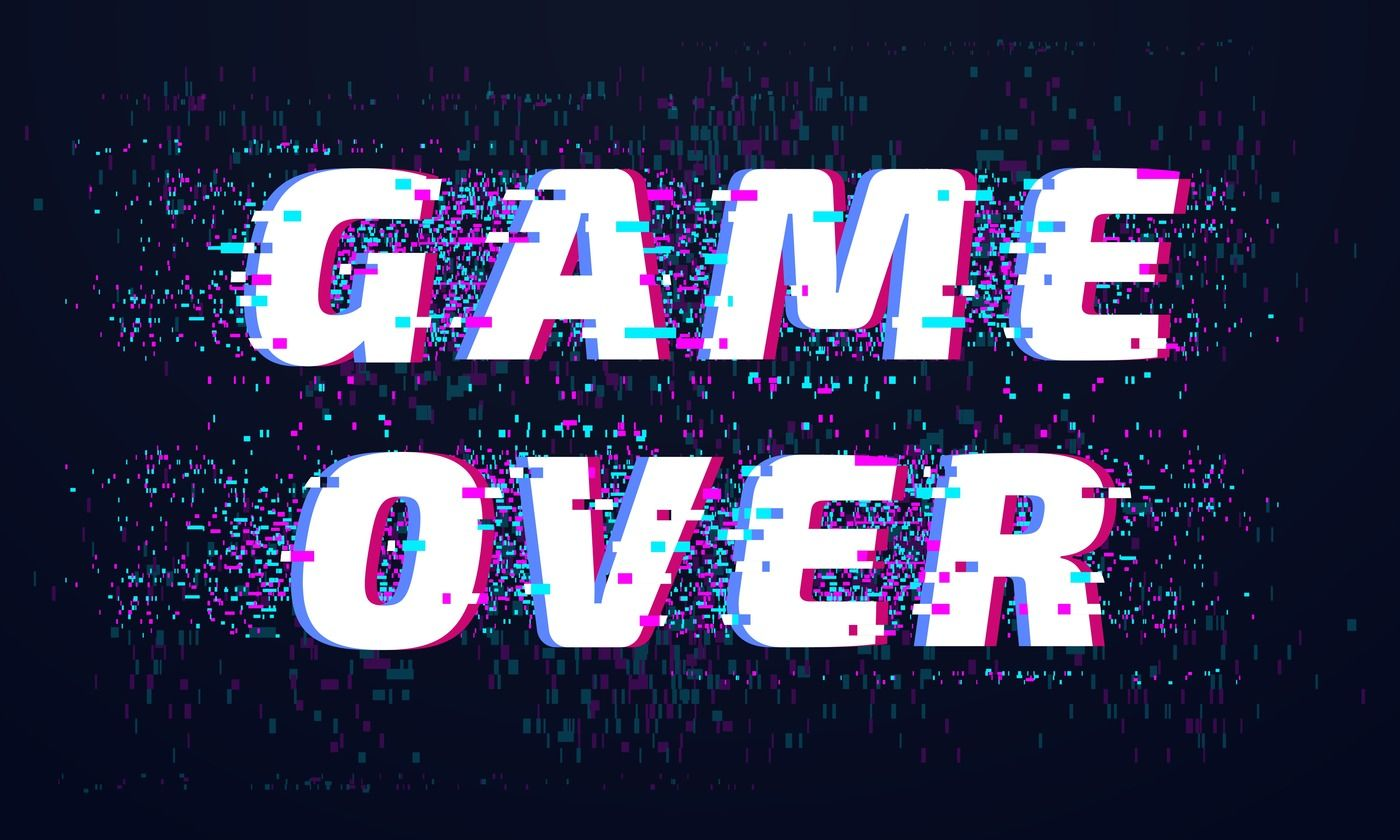
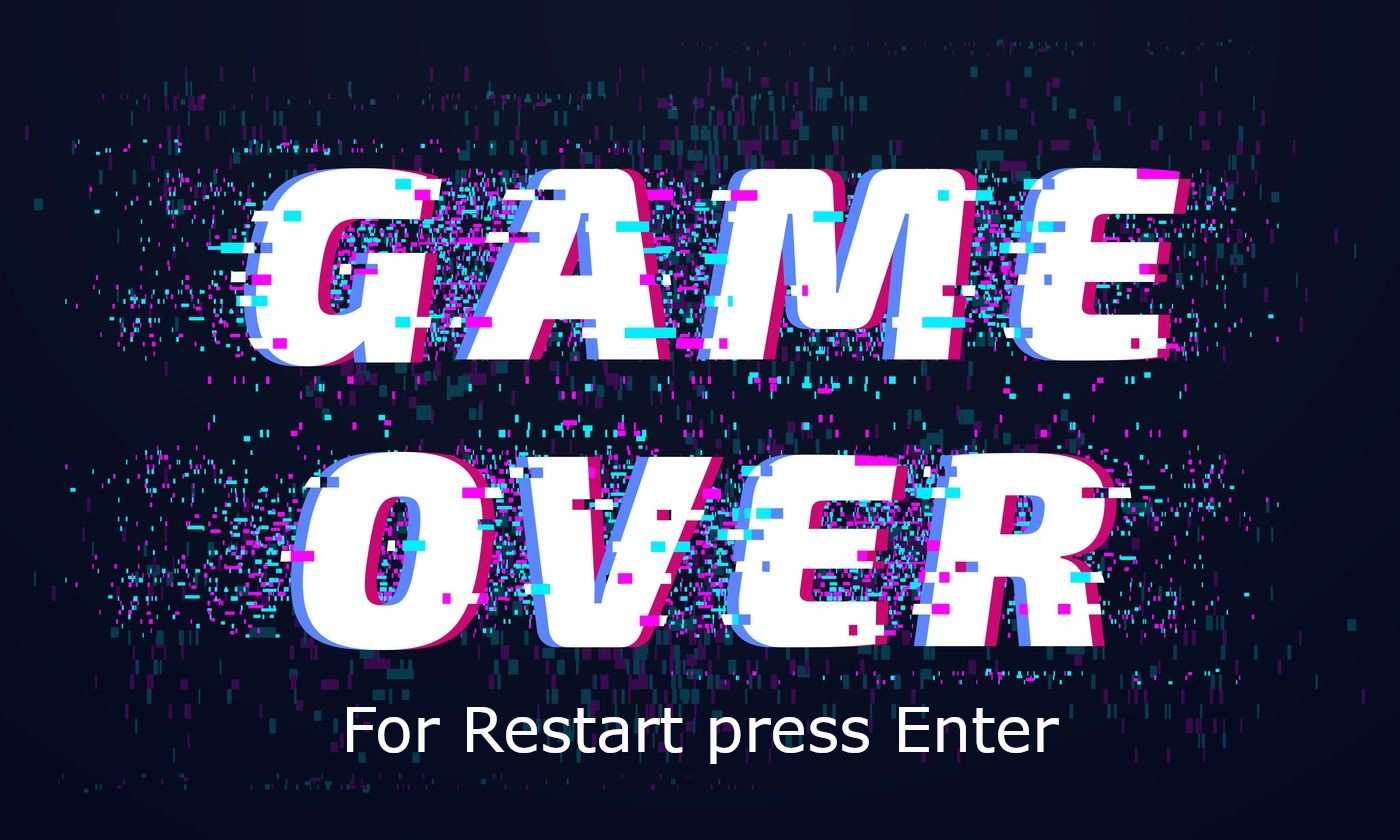
1.12

Changed region(s): [[0.2457, 0.8357, 0.7679, 0.8976]]

diff --git a/shooter.py b/shooter.py
@@ -36,9 +36,11 @@ Panzer     = pygame.image.load("PanzerUntersatz.png")
 PanzerK    = pygame.image.load("PanzerKanonenturm.png")
 Schuss     = pygame.mixer.Sound("Schuss.mp3")
 TodG       = pygame.mixer.Sound("TodG.mp3")
+TodS       = pygame.mixer.Sound("TodS.mp3")
 Music      = pygame.mixer.music.load("Music.mp3")
-#pygame.mixer.music.play(-1)
-#Hintergrund= pygame.transform.scale(Hintergrund,(infoObject.current_w, infoObject.current_h))
+pygame.mixer.music.play(-1)
+Hintergrund= pygame.transform.scale(Hintergrund,(infoObject.current_w, infoObject.current_h))
+Gameover   = pygame.transform.scale(Gameover,(infoObject.current_w, infoObject.current_h))
 
 #Funktions Blog
 def Feindreturn():
@@ -65,7 +67,7 @@ pygame.mouse.set_visible(0)
 
 spielaktiv = True
 Kugelaktiv = False
-GameoverS  = True
+GameoverS  = False
 
 while spielaktiv:
     if GameoverS == False:
@@ -133,7 +135,8 @@ while spielaktiv:
         FeindYA = FeindY - PlayerY
         FeindA  = math.sqrt(FeindXA ** 2 + FeindYA ** 2)
         if FeindA < 80:
-            spielaktiv = False    # Player Hitbox
+            pygame.mixer.Sound.play(TodS)
+            GameoverS = True    # Player Hitbox
         if KugelX < 0 :
             Kugelaktiv = False
         if KugelY < 0 :
@@ -182,6 +185,7 @@ while spielaktiv:
         if PlayerY > infoObject.current_h -20 :
             PlayerY = infoObject.current_h-20
     else:
+        pygame.mixer.music.pause()
         for event in pygame.event.get():
             if event.type == pygame.QUIT:
                 spielaktiv = False
@@ -191,3 +195,5 @@ while spielaktiv:
         keys  = pygame.key.get_pressed()
         if keys[pygame.K_ESCAPE]:
             spielaktiv = False 
+        if keys[pygame.K_RETURN]:
+            GameoverS = False
